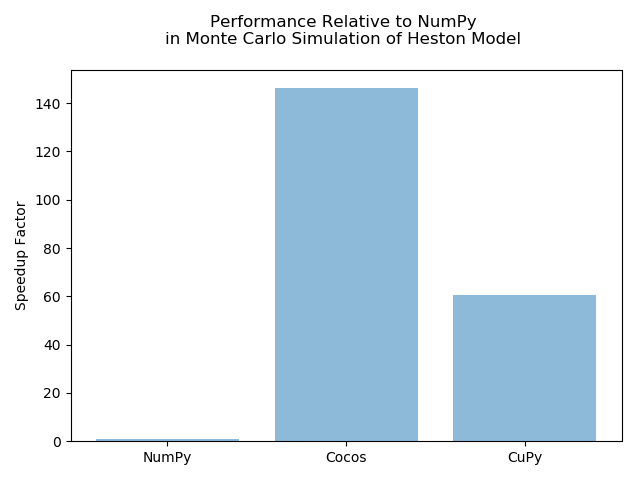
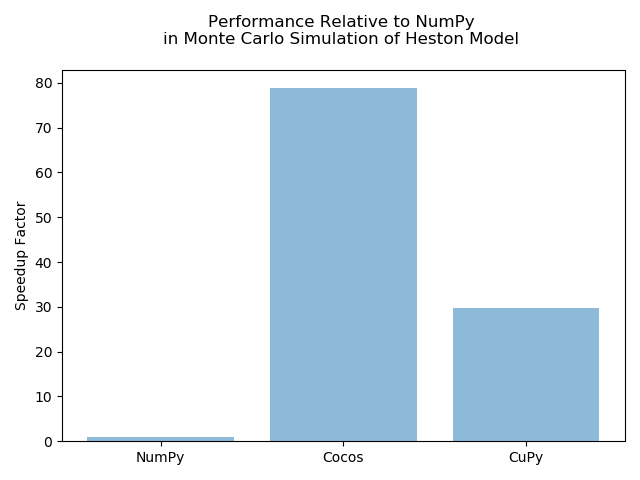
- updated benchmark to use latest package versions

diff --git a/README.md b/README.md
@@ -387,10 +387,10 @@ RAM and a NVidia GeForce GTX 1070 running Windows 10. Two Million paths are bein
 Package versions used:
 - arrayfire: 3.6.2
 - arrayfire-python: 3.6.20181017
-- cocos: 0.0.4 (commit a07403d4)
+- cocos: 0.0.7
 - CUDA: 9.2
-- cupy-cuda92: 5.4.0 
-- NumPy: 1.16.3
+- cupy-cuda92: 6.2.0 
+- NumPy: 1.16.4
 - Python: 3.7
 
 ## Functionality
